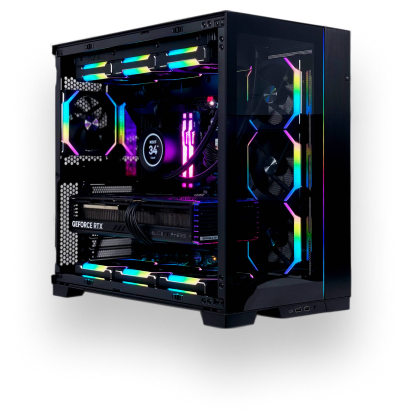
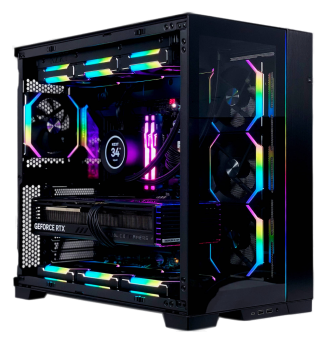
CardPcAdapted

diff --git a/src/app/components/Card/Card.module.css b/src/app/components/Card/Card.module.css
@@ -1,95 +1,176 @@
 .card_item {
-  display: flex;
-  align-items: center;
-  justify-content: space-between;
   background: linear-gradient(180deg, #343d44 0%, #293035 100%);
   border: 3px solid #3f4950;
   border-radius: 12px;
-  width: 100%;
-  min-height: 450px;
   margin-bottom: 40px;
+  display: grid;
+  grid-template-rows: auto 1fr auto;
+  grid-template-columns: 1fr 3fr;
+  grid-template-areas: 'i t' 'i s' 'i p';
+  row-gap: 40px;
+  column-gap: 40px;
+  padding: 60px;
 }
 
 .card_image {
+  max-width: max-content;
+  max-height: max-content;
   display: flex;
-  align-items: center;
-  justify-content: center;
-  margin-left: 100px;
-  min-width: 390px;
-  height: 100%;
-  /* border: 1px red solid; */
-}
-
-.card_description {
-  flex-basis: 60%;
-  height: 100%;
-  display: flex;
-  flex-direction: column;
-  margin-right: 100px;
-  /* border: 1px red solid; */
+  align-self: center;
+  justify-self: start;
+  grid-area: i;
+  /* border: 1px solid red; */
 }
 
 .desc_title {
-  margin: 30px 0 0 0;
+  margin: 0px;
+  grid-area: t;
   font-family: var(--font-wadik);
   font-weight: 700;
   font-size: 48px;
-  line-height: 1.55;
   color: #686efc;
-  margin-bottom: 20px;
 }
 
 .card_statistics {
+  grid-area: s;
   display: flex;
   justify-content: space-between;
-  margin-bottom: 20px;
-  /* border: 1px solid red; */
 }
 
 .key_of_card {
   font-family: var(--font-inter);
   font-weight: 400;
   font-size: 18px;
-  /* line-height: 1.55; */
   letter-spacing: -0.01em;
   color: #b5c1c9;
-  /* border: 1px solid green; */
 }
-
 .statistics_of_card {
-  /* border: 1px solid yellow; */
-  margin-bottom: 40px;
+  text-align: right;
   font-family: var(--font-inter);
   font-weight: 500;
   font-size: 18px;
-  /* line-height: 1.55; */
   letter-spacing: -0.01em;
-  text-align: right;
   color: #e0e1fe;
 }
-
 .card_down {
-  align-items: center;
+  grid-area: p;
   display: flex;
+  align-items: center;
   justify-content: space-between;
-  margin-bottom: 30px;
 }
 .card_price {
-  /* border: 1px solid blue; */
+  display: flex;
+  align-items: flex-end;
+}
+.card_price_bold {
+  font-family: var(--font-wadik);
+  font-weight: 700;
+  font-size: 48px;
+  color: #fff;
+  margin: 0 12px 0 0;
+  padding: 0;
+}
+.card_price_descr {
   font-family: var(--font-inter);
   font-weight: 500;
   font-size: 24px;
   color: #fff;
+  margin: 0;
+  padding: 0 0 5px 0;
 }
-.card_price_bold {
-  margin-right: 10px;
-  display: inline;
-  font-family: var(--font-wadik);
-  font-weight: 700;
-  font-size: 48px;
-  line-height: 155%;
-  color: #fff;
+
+@media screen and (max-width: 1200px) {
+  .card_item {
+    padding: 40px;
+  }
+  .desc_title {
+    font-size: 36px;
+  }
+  .card_price_bold {
+    font-size: 36px;
+  }
+  .card_price_descr {
+    font-size: 20px;
+    padding: 0 0 3px 0;
+  }
 }
-.card_price_descr {
-  display: inline;
+
+@media screen and (max-width: 1000px) {
+  .card_item {
+    padding: 30px;
+  }
+  .card_item {
+    grid-template-columns: auto 4fr;
+  }
+  .statistics_of_card,
+  .key_of_card {
+    font-size: 16px;
+  }
+}
+
+@media screen and (max-width: 800px) {
+  .card_item {
+    grid-template-rows: auto 1fr auto auto;
+    grid-template-columns: 1fr;
+    grid-template-areas: 'i' 't' 's' 'p';
+    row-gap: 20px;
+  }
+  .desc_title {
+    text-align: center;
+  }
+  .card_image {
+    justify-self: center;
+  }
+}
+@media screen and (max-width: 600px) {
+  .desc_title {
+    font-size: 32px;
+  }
+  .statistics_of_card,
+  .key_of_card {
+    font-size: 14px;
+  }
+  .card_item {
+    padding: 20px;
+  }
+  .card_price_bold {
+    font-size: 24px;
+  }
+  .card_price_descr {
+    font-size: 18px;
+    padding: 0 0 3px 0;
+  }
+}
+@media screen and (max-width: 460px) {
+  .desc_title {
+    font-size: 24px;
+  }
+  .statistics_of_card,
+  .key_of_card {
+    font-size: 12px;
+  }
+}
+@media screen and (max-width: 400px) {
+  .desc_title {
+    font-size: 20px;
+  }
+  .statistics_of_card {
+    width: 100%;
+    text-align: center;
+  }
+  .key_of_card {
+    display: none;
+  }
+}
+@media screen and (max-width: 350px) {
+  .card_item {
+    padding: 10px;
+  }
+  .card_price_bold {
+    font-size: 18px;
+  }
+  .card_price_descr {
+    font-size: 14px;
+    padding: 0 0 3px 0;
+  }
 }

diff --git a/src/app/components/Card/Card.tsx b/src/app/components/Card/Card.tsx
@@ -6,28 +6,27 @@ export function Card({ title, data, children, price, href }: ICard) {
   return (
     <div className={styles.card_item}>
       <div className={styles.card_image}>{children}</div>
-      <div className={styles.card_description}>
-        <h3 className={styles.desc_title}>{title}</h3>
-        <div className={styles.card_statistics}>
-          <div className={styles.key_of_card}>
-            {data.map((item) => (
-              <p key={item.id}>{item.key}</p>
-            ))}
-          </div>
-          <div className={styles.statistics_of_card}>
-            {data.map((item) => (
-              <p key={item.id}>{item.value}</p>
-            ))}
-          </div>
+      <h3 className={styles.desc_title}>{title}</h3>
+      <div className={styles.card_statistics}>
+        <div className={styles.key_of_card}>
+          {data.map((item) => (
+            <p key={item.id}>{item.key}</p>
+          ))}
         </div>
-        <div className={styles.card_down}>
-          <div className={styles.card_price}>
-            <p className={styles.card_price_bold}>{price}</p>
-            <p className={styles.card_price_descr}>руб/сутки</p>
-          </div>
-          <PrimaryBtn title="GO" size="small" href={href} />
+        <div className={styles.statistics_of_card}>
+          {data.map((item) => (
+            <p key={item.id}>{item.value}</p>
+          ))}
         </div>
       </div>
+      <div className={styles.card_down}>
+        <div className={styles.card_price}>
+          <p className={styles.card_price_bold}>{price}</p>
+          <p className={styles.card_price_descr}>руб/сутки</p>
+        </div>
+        <PrimaryBtn title="GO" size="small" href={href} />
+      </div>
+      {/* <div className={styles.card_description}></div> */}
     </div>
   )
 }

diff --git a/src/app/components/01_Sections/03_Cards/Cards.tsx b/src/app/components/01_Sections/03_Cards/Cards.tsx
@@ -1,3 +1,4 @@
+import styles from './Cards.module.css'
 import { white, black, green } from '@/app/data/card-data'
 import { Card } from '../../Card/Card'
 import { Title } from '../../Title/Title'
@@ -11,13 +12,25 @@ export function Cards() {
     <section className="section">
       <Title description={'Cо своей сборкой'} title={'Выбирай и выигрывай'} />
       <Card data={white} title="Стандартный" price={300} href={'#'}>
-        <Image src={WhitePC} alt="White PC" />
+        <Image
+          src={WhitePC}
+          alt="White PC"
+          className={styles.shadow}
+          width={330}
+          height={340}
+        />
       </Card>
       <Card data={black} title="Продвинутый" price={400} href={'#'}>
-        <Image src={BlackPC} alt="White PC" />
+        <Image
+          src={BlackPC}
+          alt="White PC"
+          className={styles.shadow}
+          width={330}
+          height={340}
+        />
       </Card>
       <Card data={green} title="Эксклюзивный" price={500} href={'#'}>
-        <Image src={GreenPC} alt="White PC" />
+        <Image src={GreenPC} alt="White PC" className={styles.shadow} />
       </Card>
     </section>
   )

diff --git a/src/app/mobile/page.tsx b/src/app/mobile/page.tsx
@@ -1,7 +1,7 @@
 import styles from '../page.module.css'
 import { Main } from '@/app/components/01_Sections/01_Main/Main'
 import { Stages } from '@/app/components/01_Sections/02_Stages/Stages'
-// import { Cards } from '@/app/components/01_Sections/03_Cards/Cards'
+import { Cards } from '@/app/components/01_Sections/03_Cards/Cards'
 // import { Devices } from '@/app/components/01_Sections/04_Devices/Devices'
 // import { Comments } from '@/app/components/01_Sections/05_Comments/Comments'
 // import { Contacts } from '@/app/components/01_Sections/06_Contacts/Contacts'
@@ -11,8 +11,8 @@ export default function Page() {
     <div className={styles.container}>
       <Main />
       <Stages />
-      {/* <Cards />
-      <Devices />
+      <Cards />
+      {/* <Devices />
       <Comments />
       <Contacts /> */}
     </div>

diff --git a/src/app/components/PrimaryBtn/PrimaryBtn.module.css b/src/app/components/PrimaryBtn/PrimaryBtn.module.css
@@ -1,6 +1,5 @@
 .title {
   font-family: var(--font-wadik);
-  font-size: 24px;
   background-color: #1826e1;
   color: #fff;
   transition: 0.3s;
@@ -9,6 +8,7 @@
 }
 
 .big {
+  font-size: 24px;
   border-radius: 12px;
   padding: 30px 40px;
   position: relative;
@@ -28,6 +28,7 @@
 }
 
 .small {
+  font-size: 24px;
   border-radius: 6px;
   padding: 20px 60px;
 }
@@ -43,5 +44,12 @@
     background-color: #686efc;
     color: #fff;
     box-shadow: rgba(104, 110, 252, 0.4) 0px 30px 90px;
+  }
+}
+
+@media screen and (max-width: 600px) {
+  .small {
+    border-radius: 6px;
+    padding: 15px 30px;
   }
 }

diff --git a/src/app/components/01_Sections/03_Cards/Cards.module.css b/src/app/components/01_Sections/03_Cards/Cards.module.css
@@ -1,0 +1,9 @@
+.shadow {
+  filter: drop-shadow(0px 40px 50px rgba(0, 0, 0, 0.25));
+}
+@media screen and (max-width: 900px) {
+  .shadow {
+    max-width: 231px;
+    max-height: 238px;
+  }
+}
